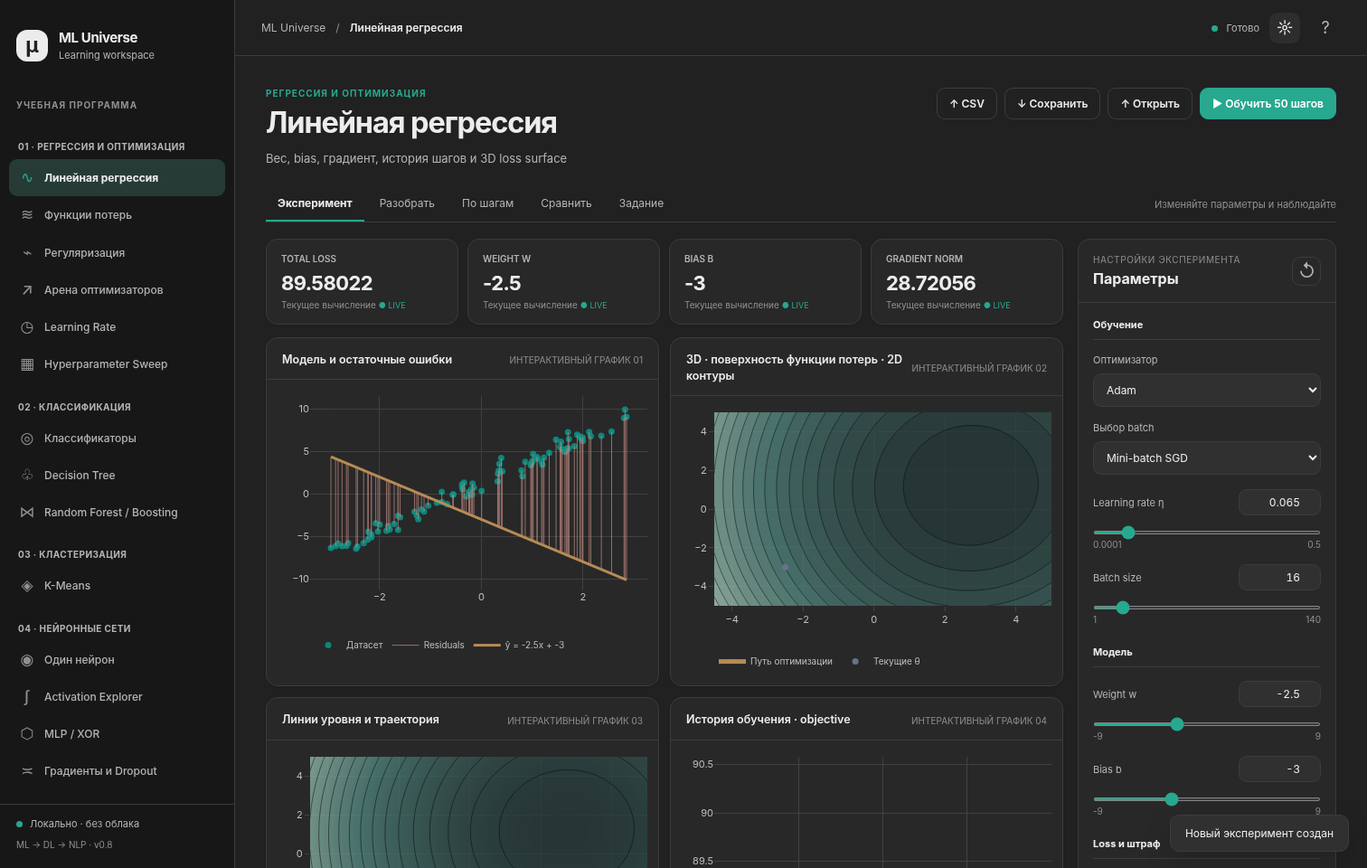
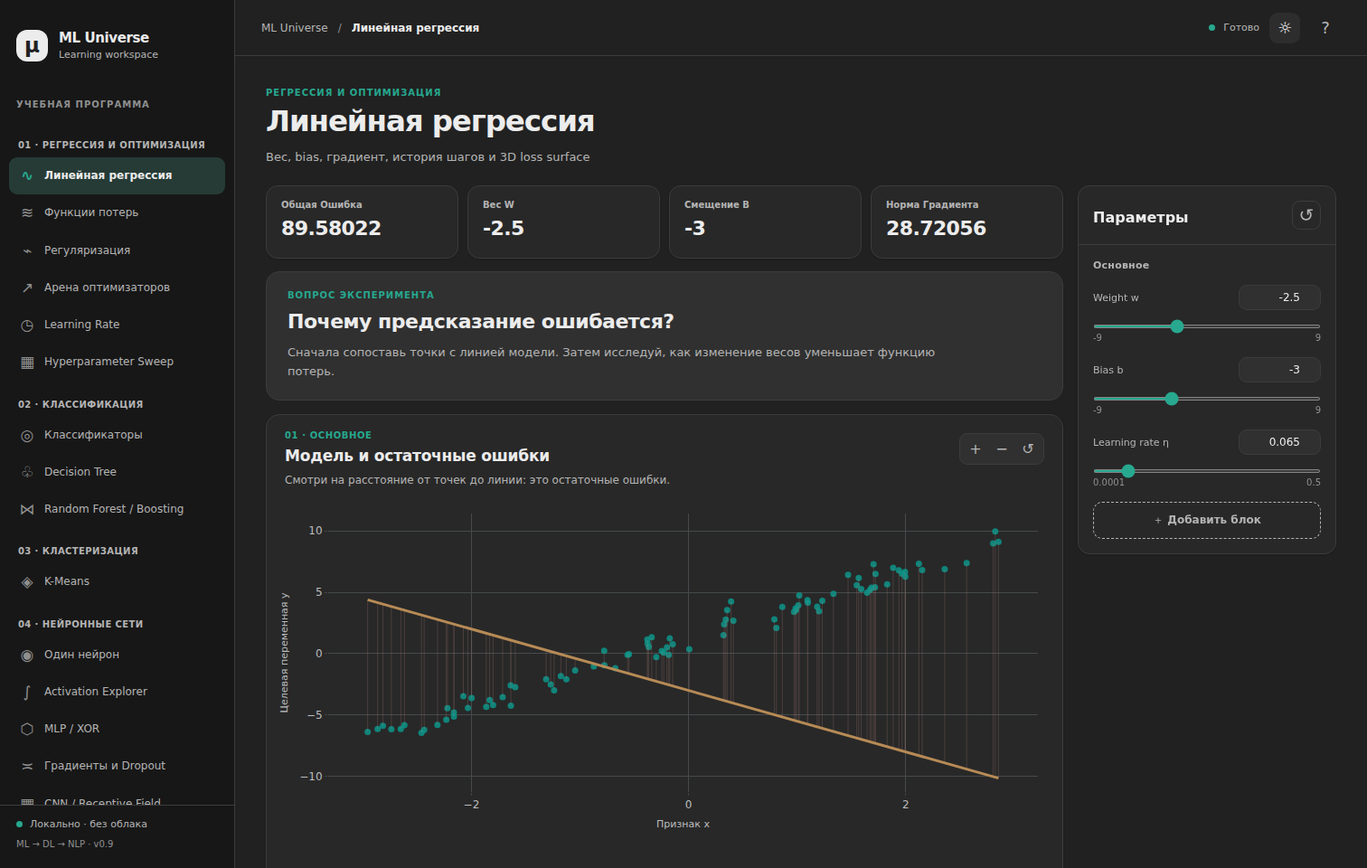
ML Universe v0.9: clear, guided scientific visualizations for all 29 labs
Unify the visual renderer, simplify charts and labels, add contextual lessons and 2D/3D views, improve categorical plots and initial loss curves, add visual CI contracts, 29-lab browser checks and updated real screenshots.

diff --git a/ml_universe/static/app.js b/ml_universe/static/app.js
@@ -285,26 +285,10 @@ function removeModule(id){const module=getLayout(page).modules.find(m=>m[0]===id
 function scheduleRegressionUpdate(key){clearTimeout(debounce);stopPlay();debounce=setTimeout(async()=>{try{if(GENERATORS.has(key)){await resetRegression(true)}else if(key==='w'||key==='b'){reg=await api('set',{w:cfg.w,b:cfg.b});drawRegression();}else{reg=await api('set',{[key]:cfg[key]});if(['loss','regularizer','lam','ratio','delta','quantile'].includes(key))surface=(await api('surface')).surface;drawRegression();}}catch(e){message(e.message,true)}},key==='w'||key==='b'?130:280);}
 async function resetRegression(quiet=false){try{clearTimeout(debounce);stopPlay();setBusy(true);reg=await api('init',cfg);surface=reg.surface;delete reg.surface;cfg={...cfg,...reg.config};drawRegression();if(!quiet)message('Новый эксперимент создан');}catch(e){message(e.message,true)}finally{setBusy(false)}}
 function setBusy(v){busy=v;$('#status-text').innerHTML=v?'<span class="online-dot"></span> Вычисление…':'<span class="online-dot"></span> Готово';}
-function plotTheme(){
- const light=ROOT.classList.contains('light');
- const primary=light?'#27272a':'#ececec';const grid=light?'#e9e9eb':'#414141';
- return {paper_bgcolor:'rgba(0,0,0,0)',plot_bgcolor:'rgba(0,0,0,0)',
- font:{color:light?'#66666b':'#bdbdc2',family:'Inter, system-ui, Segoe UI, Arial',size:11},
- colorway:['#0d9488','#64748b','#e09b55','#7c84a6','#5caa83','#b17889','#a39980','#818cf8'],
- xaxis:{gridcolor:grid,zerolinecolor:grid},yaxis:{gridcolor:grid,zerolinecolor:grid},
- legend:{orientation:'h',y:-.22,font:{size:10}},hovermode:'closest'};
-}
-function renderCharts(charts){if(window.MLStory){window.MLStory.render({charts,page,reg,webgl:HAS_WEBGL,theme:ROOT.classList.contains('light')?'light':'dark'});return;}const host=$('#graphs');if(!charts||!charts.length){host.innerHTML='<div class="empty-panel">Пока нет данных.</div>';return;}const key=page+'_'+charts.length;const recreate=currentKey!==key||$$('.chart-card').length!==charts.length;currentKey=key;if(recreate){host.innerHTML='';charts.forEach((c,i)=>{const card=document.createElement('div');card.className='chart-card'+(c.wide?' wide':'');card.innerHTML=`<div class="chart-head"><strong>${ESC(c.title||'Визуализация')}${!HAS_WEBGL&&c.traces.some(t=>t.type==='surface'||t.type==='scatter3d')?' · 2D контуры':''}</strong></div><div class="chart-body" id="plot-${i}"></div>`;host.appendChild(card);});}
- const theme=plotTheme();charts.forEach((c,i)=>{const original3d=c.traces.some(t=>t.type==='surface'||t.type==='scatter3d');
-  let traces=c.traces;
-  if(original3d&&!HAS_WEBGL)traces=traces.map(t=>t.type==='surface'?{type:'contour',x:t.x,y:t.y,z:t.z,colorscale:t.colorscale||'Viridis',showscale:false,opacity:t.opacity||1,ncontours:22}:t.type==='scatter3d'?{type:'scatter',x:t.x,y:t.y,mode:t.mode||'lines',name:t.name,line:t.line||{},marker:{...t.marker,size:Math.max(5,t.marker?.size||5)}}:t);
-  // Calm sequential scale for loss surfaces; preserve diverging scales for signed kernels.
-  const calm=ROOT.classList.contains('light')?[[0,'#f0f4f4'],[.5,'#9abfba'],[1,'#316b66']]:[[0,'#263a39'],[.5,'#4f817a'],[1,'#a7c8b9']];
-  traces=traces.map(t=>t.colorscale==='Viridis'?{...t,colorscale:calm}:t);
-  const target=$(`#plot-${i}`),layout={...theme,...c.layout,margin:{l:48,r:12,t:18,b:48},height:target?.clientHeight||340,autosize:true};if(layout.xaxis)layout.xaxis={...theme.xaxis,...layout.xaxis};if(layout.yaxis)layout.yaxis={...theme.yaxis,...layout.yaxis};if(original3d&&HAS_WEBGL){layout.scene={xaxis:{title:'x'},yaxis:{title:'y'},zaxis:{title:'Objective'},bgcolor:'rgba(0,0,0,0)',...layout.scene};delete layout.xaxis;delete layout.yaxis;layout.margin={l:0,r:0,t:0,b:0};}
-   // Focus on learning: only zoom and reset, without screenshot/export, lasso or 3D gimmicks.
-   const buttons=original3d&&HAS_WEBGL?['zoom3d','resetCameraDefault3d']:['zoomIn2d','zoomOut2d','resetScale2d'];
-   Plotly.react(target,traces,layout,{responsive:true,displaylogo:false,displayModeBar:'hover',scrollZoom:true,doubleClick:'reset',modeBarButtons:[buttons]}).catch(e=>message('Ошибка графика: '+e.message,true));});
+// The teaching narrative is the only chart renderer; no competing legacy UI.
+function renderCharts(charts){
+  if(!window.MLStory)throw Error('Не загружен визуальный движок ML Universe');
+  window.MLStory.render({charts,page,reg,webgl:HAS_WEBGL,theme:ROOT.classList.contains('light')?'light':'dark'});
 }
 const HUMAN_METRICS={'TOTAL LOSS':'Общая ошибка','WEIGHT w':'Вес w','BIAS b':'Смещение b','GRADIENT NORM':'Норма градиента','accuracy':'Точность','precision':'Precision','recall':'Recall','f1':'F1-мера','best_lr':'Лучший шаг','loss':'Ошибка','mse':'MSE','rmse':'RMSE','r2':'R²','inertia':'Инерция кластеров','steps':'Шаги','optimizer':'Оптимизатор','train_loss':'Ошибка обучения','validation_loss':'Ошибка проверки'};
 function humanMetric(key){return HUMAN_METRICS[key]||String(key).replaceAll('_',' ');}
@@ -315,13 +299,13 @@ function drawRegression(){if(!reg)return;const h=reg.history,last=reg.current,x=
  const segments=[];for(let i=0;i<x.length;i++){segments.push(x[i],x[i],null)}
  const ys=[];for(let i=0;i<x.length;i++)ys.push(y[i],p[i],null);
  const light=ROOT.classList.contains('light');
- const dataChart={title:'Модель и остаточные ошибки',traces:[{type:'scatter',mode:'markers',name:'Датасет',x,y,marker:{color:'#0d9488',size:7,opacity:.86}}, {type:'scatter',mode:'lines',name:'Residuals',x:segments,y:ys,line:{color:'#c58d85',width:1},opacity:.7,hoverinfo:'skip'}, {type:'scatter',mode:'lines',name:'ŷ = '+NUM(w)+'x + '+NUM(b),x:[Math.min(...x),Math.max(...x)],y:[w*Math.min(...x)+b,w*Math.max(...x)+b],line:{color:'#b78b56',width:3}}],layout:{xaxis:{title:'Признак x'},yaxis:{title:'Целевая переменная y'}}};
+ const dataChart={title:'Модель и остаточные ошибки',traces:[{type:'scatter',mode:'markers',name:'Датасет',x,y,marker:{color:'#0d9488',size:7,opacity:.86}}, {type:'scatter',mode:'lines',name:'Residuals',x:segments,y:ys,line:{color:'#c58d85',width:1},opacity:.7,hoverinfo:'skip'}, {type:'scatter',mode:'lines',name:'ŷ = '+NUM(w)+'x '+(b<0?'− '+NUM(-b):'+ '+NUM(b)),x:[Math.min(...x),Math.max(...x)],y:[w*Math.min(...x)+b,w*Math.max(...x)+b],line:{color:'#b78b56',width:3}}],layout:{xaxis:{title:'Признак x'},yaxis:{title:'Целевая переменная y'}}};
  const s=surface;
  const path3={type:'scatter3d',x:coords,y:bias,z:losses,name:'Путь оптимизации',mode:'lines+markers',line:{color:'#b78b56',width:5},marker:{size:2,color:'#b78b56'}};
  const point3={type:'scatter3d',x:[w],y:[b],z:[last.loss],name:'Текущие θ',mode:'markers',marker:{size:7,color:'#64748b'}};
  const surfChart={title:'3D · поверхность функции потерь',traces:s?[{type:'surface',x:s.w,y:s.b,z:s.z,opacity:.80,showscale:false,colorscale:'Viridis',hovertemplate:'w=%{x:.2f}<br>b=%{y:.2f}<br>Loss=%{z:.4f}<extra></extra>'},path3,point3]:[point3],layout:{scene:{xaxis:{title:'Weight w'},yaxis:{title:'Bias b'},zaxis:{title:'Loss'}}}};
  const contourChart={title:'Линии уровня и траектория',traces:s?[{type:'contour',x:s.w,y:s.b,z:s.z,showscale:false,colorscale:'Viridis',ncontours:24,contours:{coloring:'heatmap'},opacity:.89},{type:'scatter',x:coords,y:bias,mode:'lines+markers',name:'Траектория',line:{color:'#b78b56',width:2.5},marker:{color:'#eee2d2',size:5}},{type:'scatter',x:[w],y:[b],mode:'markers',name:'Текущая точка',marker:{color:'#8d89aa',size:14,symbol:'circle-open',line:{width:3}}}]:[],layout:{xaxis:{title:'Weight w'},yaxis:{title:'Bias b'}}};
- const lossChart={title:'История обучения · objective',traces:[{type:'scatter',x:h.map(q=>q.step),y:losses,mode:'lines',name:'Total objective',line:{color:'#0d9488',width:2.5}},{type:'scatter',x:h.map(q=>q.step),y:h.map(q=>q.data_loss),mode:'lines',name:'Data loss',line:{color:'#7c84a6',width:1.5,dash:'dot'}}],layout:{xaxis:{title:'Шаг оптимизации'},yaxis:{title:'Loss'}}};
+ const lossChart={title:'Как изменяется ошибка при обучении',traces:[{type:'scatter',x:h.map(q=>q.step),y:losses,mode:'lines',name:'Итоговая ошибка',line:{color:'#0d9488',width:2.5}},{type:'scatter',x:h.map(q=>q.step),y:h.map(q=>q.data_loss),mode:'lines',name:'Ошибка предсказаний',line:{color:'#7c84a6',width:1.5,dash:'dot'}}],layout:{xaxis:{title:'Шаг оптимизации'},yaxis:{title:'Ошибка'}}};
  renderCharts([dataChart,surfChart,contourChart,lossChart]);setStats({'TOTAL LOSS':last.loss,'WEIGHT w':w,'BIAS b':b,'GRADIENT NORM':Math.hypot(...currentG)});
  const d=reg.detail||{};const rows={'θ (w, b)':reg.theta,'∇L (full data)':currentG,'Data loss':last.data_loss,'Penalty':last.penalty,'RMSE':reg.score.rmse,'R²':reg.score.r2,'Optimizer':reg.config.optimizer,'Шаг':reg.steps};
  let html=kvHtml(rows)+`<div class="formula">θₜ₊₁ = Optimizer(θₜ, ∇L, stateₜ)</div>`;

diff --git a/ml_universe/static/visual_story.js b/ml_universe/static/visual_story.js
@@ -58,6 +58,11 @@
       const chosen = view==='surface' && webgl ? 1 : 2;
       return [{index:0,kind:'hero',note:0},{index:chosen,kind:'secondary',note:1,toggle:true},{index:3,kind:'secondary',note:2}];
     }
+    // Optimizer Arena: 2D and 3D display the same trajectory experiment.
+    if(page==='optimizer_gallery' && charts.length>=3){
+      const chosen=view==='surface' && webgl ? 2 : 0;
+      return [{index:chosen,kind:'hero',note:0,toggle:true},{index:1,kind:'secondary',note:1}];
+    }
     const entries=charts.map((_,i)=>({index:i,kind:i===0?'hero':'secondary',note:Math.min(i,2)}));
     if(entries.length>3 && !extrasExpanded)return entries.slice(0,3);
     return entries;
@@ -94,7 +99,10 @@
       copy.append(el('h3','visual-chart-title',spec.title||'Результат вычисления'));
       head.append(copy);
       const actions=el('div','visual-actions');
-      const help=el('p','visual-chart-intro',(guide[2]||[])[entry.note]||'Меняй параметры и наблюдай изменение данных.');
+      const note=entry.toggle&&state.page==='optimizer_gallery'&&view==='surface'
+        ?'Высота поверхности показывает значение функции потерь. Линии — фактические пути оптимизаторов.'
+        :(guide[2]||[])[entry.note]||'Меняй параметры и наблюдай изменение данных.';
+      const help=el('p','visual-chart-intro',note);
       if(entry.toggle){
         const tabs=el('div','visual-view-tabs');tabs.setAttribute('role','group');tabs.setAttribute('aria-label','Режим поверхности потерь');
         for(const [id,label] of [['contour','2D'],['surface','3D']]){
@@ -149,6 +157,16 @@
         if(trace.type==='surface')trace.lighting={ambient:.82,diffuse:.75,specular:.07,roughness:.98};
         if(trace.type==='contour')trace.contours={...trace.contours,showlabels:false};
       }
+      // A one-point training curve is a valid observation, not an empty chart.
+      if(trace.type==='scatter'&&String(trace.mode||'').includes('lines')&&Array.isArray(trace.x)&&trace.x.length===1&&Array.isArray(trace.y)&&trace.y.length===1){
+        trace.mode='lines+markers';
+        trace.marker={size:9,color:trace.line?.color||palette.teaching,...trace.marker};
+      }
+      // On dense regression datasets residual segments remain visible but unobtrusive.
+      if(trace.name==='Residuals'){
+        trace.opacity=.26;
+        trace.line={...trace.line,width:.85};
+      }
       if(trace.type==='scatter'&&trace.mode&&trace.mode.includes('lines'))trace.line={width:2.5,...trace.line};
       if(trace.type==='scatter'&&trace.mode&&trace.mode.includes('markers'))trace.marker={size:7,opacity:.90,...trace.marker};
       if(trace.type==='bar'){
@@ -173,7 +191,7 @@
       font:{family:'Inter,system-ui,-apple-system,Segoe UI,sans-serif',size:12,color:textColor},
       colorway:[palette.teaching,palette.model,palette.secondary,palette.caution,'#9180A7','#647f74'],
       hoverlabel:{bgcolor:light?'#fff':'#333',bordercolor:axis,font:{size:12,color:light?'#242424':'#f2f2f2'}},hovermode:'closest',
-      uirevision:current.page+'-'+spec.title,
+      uirevision:(current?.page||'lab')+'-'+spec.title,
       showlegend:traces.filter(t=>t.showlegend!==false&&t.name).length>1,
       legend:{orientation:'h',x:0,y:-.25,font:{size:11},bgcolor:'rgba(0,0,0,0)',itemsizing:'constant'},
       xaxis:{title:{text:spec.layout?.xaxis?.title||'',font:{size:11},standoff:10},gridcolor:axis,gridwidth:.5,zeroline:false,showline:false,ticks:'outside',ticklen:3,nticks:6,automargin:true,showspikes:false},

diff --git a/tests/test_visual_story.py b/tests/test_visual_story.py
@@ -1,0 +1,33 @@
+"""Semantics of the shared visual narrative, independent from Python math tests."""
+from pathlib import Path
+
+ROOT = Path(__file__).resolve().parents[1]
+VIS = (ROOT / 'ml_universe/static/visual_story.js').read_text(encoding='utf-8')
+CSS = (ROOT / 'ml_universe/static/visual_story.css').read_text(encoding='utf-8')
+HTML = (ROOT / 'ml_universe/static/index.html').read_text(encoding='utf-8')
+APP = (ROOT / 'ml_universe/static/app.js').read_text(encoding='utf-8')
+
+
+def test_visual_renderer_is_loaded_before_main_and_integrated():
+    assert HTML.index('/visual_story.js') < HTML.index('/app.js')
+    assert '/visual_story.css' in HTML
+    assert 'window.MLStory.render' in APP
+    assert 'displayModeBar:false' in VIS
+
+
+def test_narrative_and_semantics_are_explicit():
+    for name in ('regression', 'losses', 'classification', 'trees', 'clustering',
+                 'attention', 'multihead', 'rag', 'bandits', 'information'):
+        assert f'{name}:' in VIS
+    assert 'visual-brief' in VIS
+    assert 'visual-hero' in CSS
+    assert "['contour','2D']" in VIS
+    assert "['surface','3D']" in VIS
+    assert 'Разобрать' not in HTML
+
+
+def test_chart_controls_are_minimal():
+    assert "['in','+','Приблизить']" in VIS
+    assert "['out','−','Отдалить']" in VIS
+    assert "['reset','↺','Вернуть исходный масштаб']" in VIS
+    assert 'modeBarButtons' not in VIS

diff --git a/tests/test_visual_story_contract.py b/tests/test_visual_story_contract.py
@@ -33,7 +33,7 @@ def test_chart_accessibility_and_contextual_explanation():
     assert "Каждая клетка" in JS
     assert ".visual-hero" in CSS
     assert 'displayModeBar:false' in JS
-    assert 'zoomIn2d' in APP  # legacy fallback retains controls
+    assert 'function renderCharts(charts)' in APP  # single authoritative renderer
     assert "view==='surface'" in JS
 
 def test_visualizations_are_meaningful_not_random():
@@ -42,3 +42,8 @@ def test_visualizations_are_meaningful_not_random():
     assert 'trace.colorscale=sequential' in JS
     assert 'layout.yaxis.scaleanchor=' in JS
     assert 'const needs3d=traces.some(isSurface)' in JS
+
+
+def test_optimizer_arena_uses_one_switchable_2d_3d_trajectory_view():
+    assert "page==='optimizer_gallery' && charts.length>=3" in JS
+    assert "index:chosen,kind:'hero',note:0,toggle:true" in JS

diff --git a/scripts/visual_smoke.py b/scripts/visual_smoke.py
@@ -108,9 +108,13 @@ def main():
         page.locator('#status-text').hover()
         navs=page.locator('.nav-item').count()
         assert navs==29,navs
+        page.evaluate("document.querySelector('.content-scroll').scrollTop=0")
+        page.wait_for_timeout(250)
         page.screenshot(path=str(ROOT/'docs'/'ui-light.png'),full_page=False)
         page.locator('#themeButton').click()
         page.wait_for_timeout(850)
+        page.evaluate("document.querySelector('.content-scroll').scrollTop=0")
+        page.wait_for_timeout(250)
         page.screenshot(path=str(ROOT/'docs'/'ui-dark.png'),full_page=False)
         assert not page.locator('html').get_attribute('class')
         # Clear user-level theme and run every available lab in real Python.

diff --git a/tests/test_ui_contract.py b/tests/test_ui_contract.py
@@ -34,9 +34,9 @@ def test_distraction_free_ui_has_no_file_controls_or_decorative_modebar():
     assert '<input type="file"' not in HTML
     assert 'saveFile(' not in JS and 'loadCsv(' not in JS
     assert 'toImageButtonOptions' not in JS
-    assert 'modeBarButtons:[buttons]' in JS
-    assert "['zoomIn2d','zoomOut2d','resetScale2d']" in JS
-    assert "['zoom3d','resetCameraDefault3d']" in JS
+    assert 'window.MLStory.render' in JS
+    assert 'visual_story.js' in HTML
+    assert 'visual_story.css' in HTML
     assert 'id="renderTime"' not in HTML
 
 

diff --git a/docs/VISUAL_DESIGN_GUIDE.md b/docs/VISUAL_DESIGN_GUIDE.md
@@ -1,0 +1,60 @@
+# ML Universe v0.9 — система визуального обучения
+
+## Зачем переработаны графики
+
+Вместо одинаковых карточек «график №1—№4» лаборатория выстраивает рассказ: **вопрос → основная визуализация → второстепенные доказательства → математические значения**. Необязательные графики в длинных лабораториях раскрываются отдельно. Интерфейс сохраняет минималистичные светлую и тёмную темы.
+
+## Законы визуализации
+
+1. **Один фокус.** Первый график — крупный, остальные меньше и с объяснением их назначения.
+2. **Один язык цвета.** Данные и исходные наблюдения — бирюзовые, модель и траектория — тёплые оранжевые оттенки, сравниваемые методы — различимые дополнительные цвета. Дискретные классы не кодируются непрерывной цветовой шкалой.
+3. **Нормальные подписи.** Название графика не дублируется внутри Plotly. Оси имеют человеческие названия и достаточные поля; пустые/длинные названия не перекрывают значения. Рядом с графиком есть короткая инструкция.
+4. **Компактное управление.** Только «приблизить», «отдалить», «сброс». Для 3D доступны вращение мышью и масштаб; для регрессии 2D/3D — разные представления одной поверхности, а не два независимых виджета.
+5. **Объяснение на основе данных.** Состояние, траектории, вероятности и градиенты вычисляются сервером Python. Визуальный слой не подменяет их случайными числами. В линейной регрессии показывается реальное изменение loss относительно исходной точки.
+6. **Значение вместо украшения.** 2×2 и небольшие матрицы сохраняют квадратные ячейки. Длинные кандидаты разбиения дерева превращаются в горизонтальный рейтинг. Поверхности имеют последовательную шкалу; знакопеременные ядра — расходящуюся.
+7. **Спокойная плотность.** Одновременно до трёх графиков, остальные за «Ещё графики» там, где это применимо. Сохраняем математический инспектор, модульные параметры и историю оптимизации.
+8. **Нет обмана.** Если браузер не поддерживает WebGL, 3D-поверхность отображается двумерными линиями уровня. Пояснения различают игрушечные вычисления, реальные обученные модели и проекции.
+
+## Что нужно увидеть в каждой из 29 лабораторий
+
+| Раздел | Главный смысл | На что смотреть |
+|---|---|---|
+| Линейная регрессия | Прогноз и остаточная ошибка | Точки, линия, затем траектория в 2D/3D и ход loss |
+| Функции потерь | Разница штрафа и его производной | Рост штрафа с остатком и наклон кривой |
+| Регуляризация | Поведение весов при росте α | Пути коэффициентов и число ненулевых весов |
+| Арена оптимизаторов | Сравнение при одинаковых начальных условиях | Траектории, loss по шагам и поверхность |
+| Learning Rate | Изменение шага | Форма графика расписания |
+| Hyperparameter Sweep | Сравнение сетки опытов | Цвет результата при одинаковом бюджете |
+| Классификаторы | Граница решений | Дискретные классы, точки, ошибки, ROC/PR |
+| Decision Tree | Причина разбиения | Границы и упорядоченный выигрыш split |
+| Ансамбли | Сложность разделяющей области | Область решения и матрица ошибок |
+| K-Means | Движение центроидов | Положение центров и уменьшение inertia |
+| Один нейрон | Взвешенная сумма → активация | Маркер на кривой и вклады входов |
+| Activation Explorer | Чувствительность активаций | Значения и производные на одинаковом интервале |
+| MLP / XOR | Нелинейность обученной сети | Поле решений и train loss |
+| Градиенты и Dropout | Передача сигнала по глубине | Масштаб активаций и норма градиента |
+| CNN | Устройство свёртки | Вход, ядро, выход и receptive field |
+| RNN | Состояние после каждого токена | Hidden states и их нормы |
+| Text Preprocessing / TF-IDF | Числовое представление документов | Термин-документ и cosine similarity |
+| BPE | Слияния токенов | Изменение числа токенов |
+| Text Classification | Словарь → вероятности | Вероятности классов и обучающие частоты |
+| Word Embeddings | Связи контекстов | PPMI и аккуратно интерпретируемая 2D-проекция |
+| Attention Q/K/V | Вес внимания | Оси запросов/ключей и сумма строки после softmax |
+| Multi-Head Attention | Разные проекции | Матрицы отдельных голов и итоговое представление |
+| Decoding / Sampling | Изменение распределения | Исходные и отфильтрованные вероятности |
+| RAG Retrieval | Поиск фрагментов | Cosine similarity документов, не генерация ответа |
+| Multi-Armed Bandit | Исследование и эксплуатация | Истинные/оценённые вероятности и regret |
+| Gradient / Hessian | Геометрия функции | Касательная, градиент и линии уровня |
+| Векторы и матрицы | Геометрический смысл операций | Вектора и трансформация |
+| Нормы | Геометрия ограничений | Формы L1/L2/L∞ |
+| Entropy / KL / JS | Различие распределений | Сравнение вероятностей и метрик |
+
+## Как проверять
+
+- `node --check ml_universe/static/visual_story.js`
+- `node scripts/visual_contract.mjs` — проверка геометрии и оформления без браузера.
+- `python -m pytest -q` — существующие математические и API-тесты.
+- `./scripts/run_linux.sh` — руками проверить: переключение 2D/3D, темы, увеличение/сброс, K-Means, дерево, Attention, длинные подписи.
+- GitHub Actions выполняет Python 3.11/3.12, Node-контракты и API smoke test после PR.
+
+Сами экспериментальные данные и API сохранены. Изменена только организация их отображения; новые алгоритмы здесь намеренно не добавлялись.

diff --git a/README.md b/README.md
@@ -1,5 +1,6 @@
 # ML Universe — ML → Deep Learning → NLP
 
+\n[Подробный визуальный гид для всех 29 лабораторий](docs/VISUAL_DESIGN_GUIDE.md) · [Визуальные принципы](docs/VISUAL_DESIGN.md)\n
 **Интерактивная офлайн-лаборатория** для изучения машинного обучения, нейросетей и NLP. Основная платформа — **Linux**; Windows-скрипты и сборка `.exe` сохранены на будущее.
 
 ![Интерфейс ML Universe — светлая тема](docs/ui-light.png)
